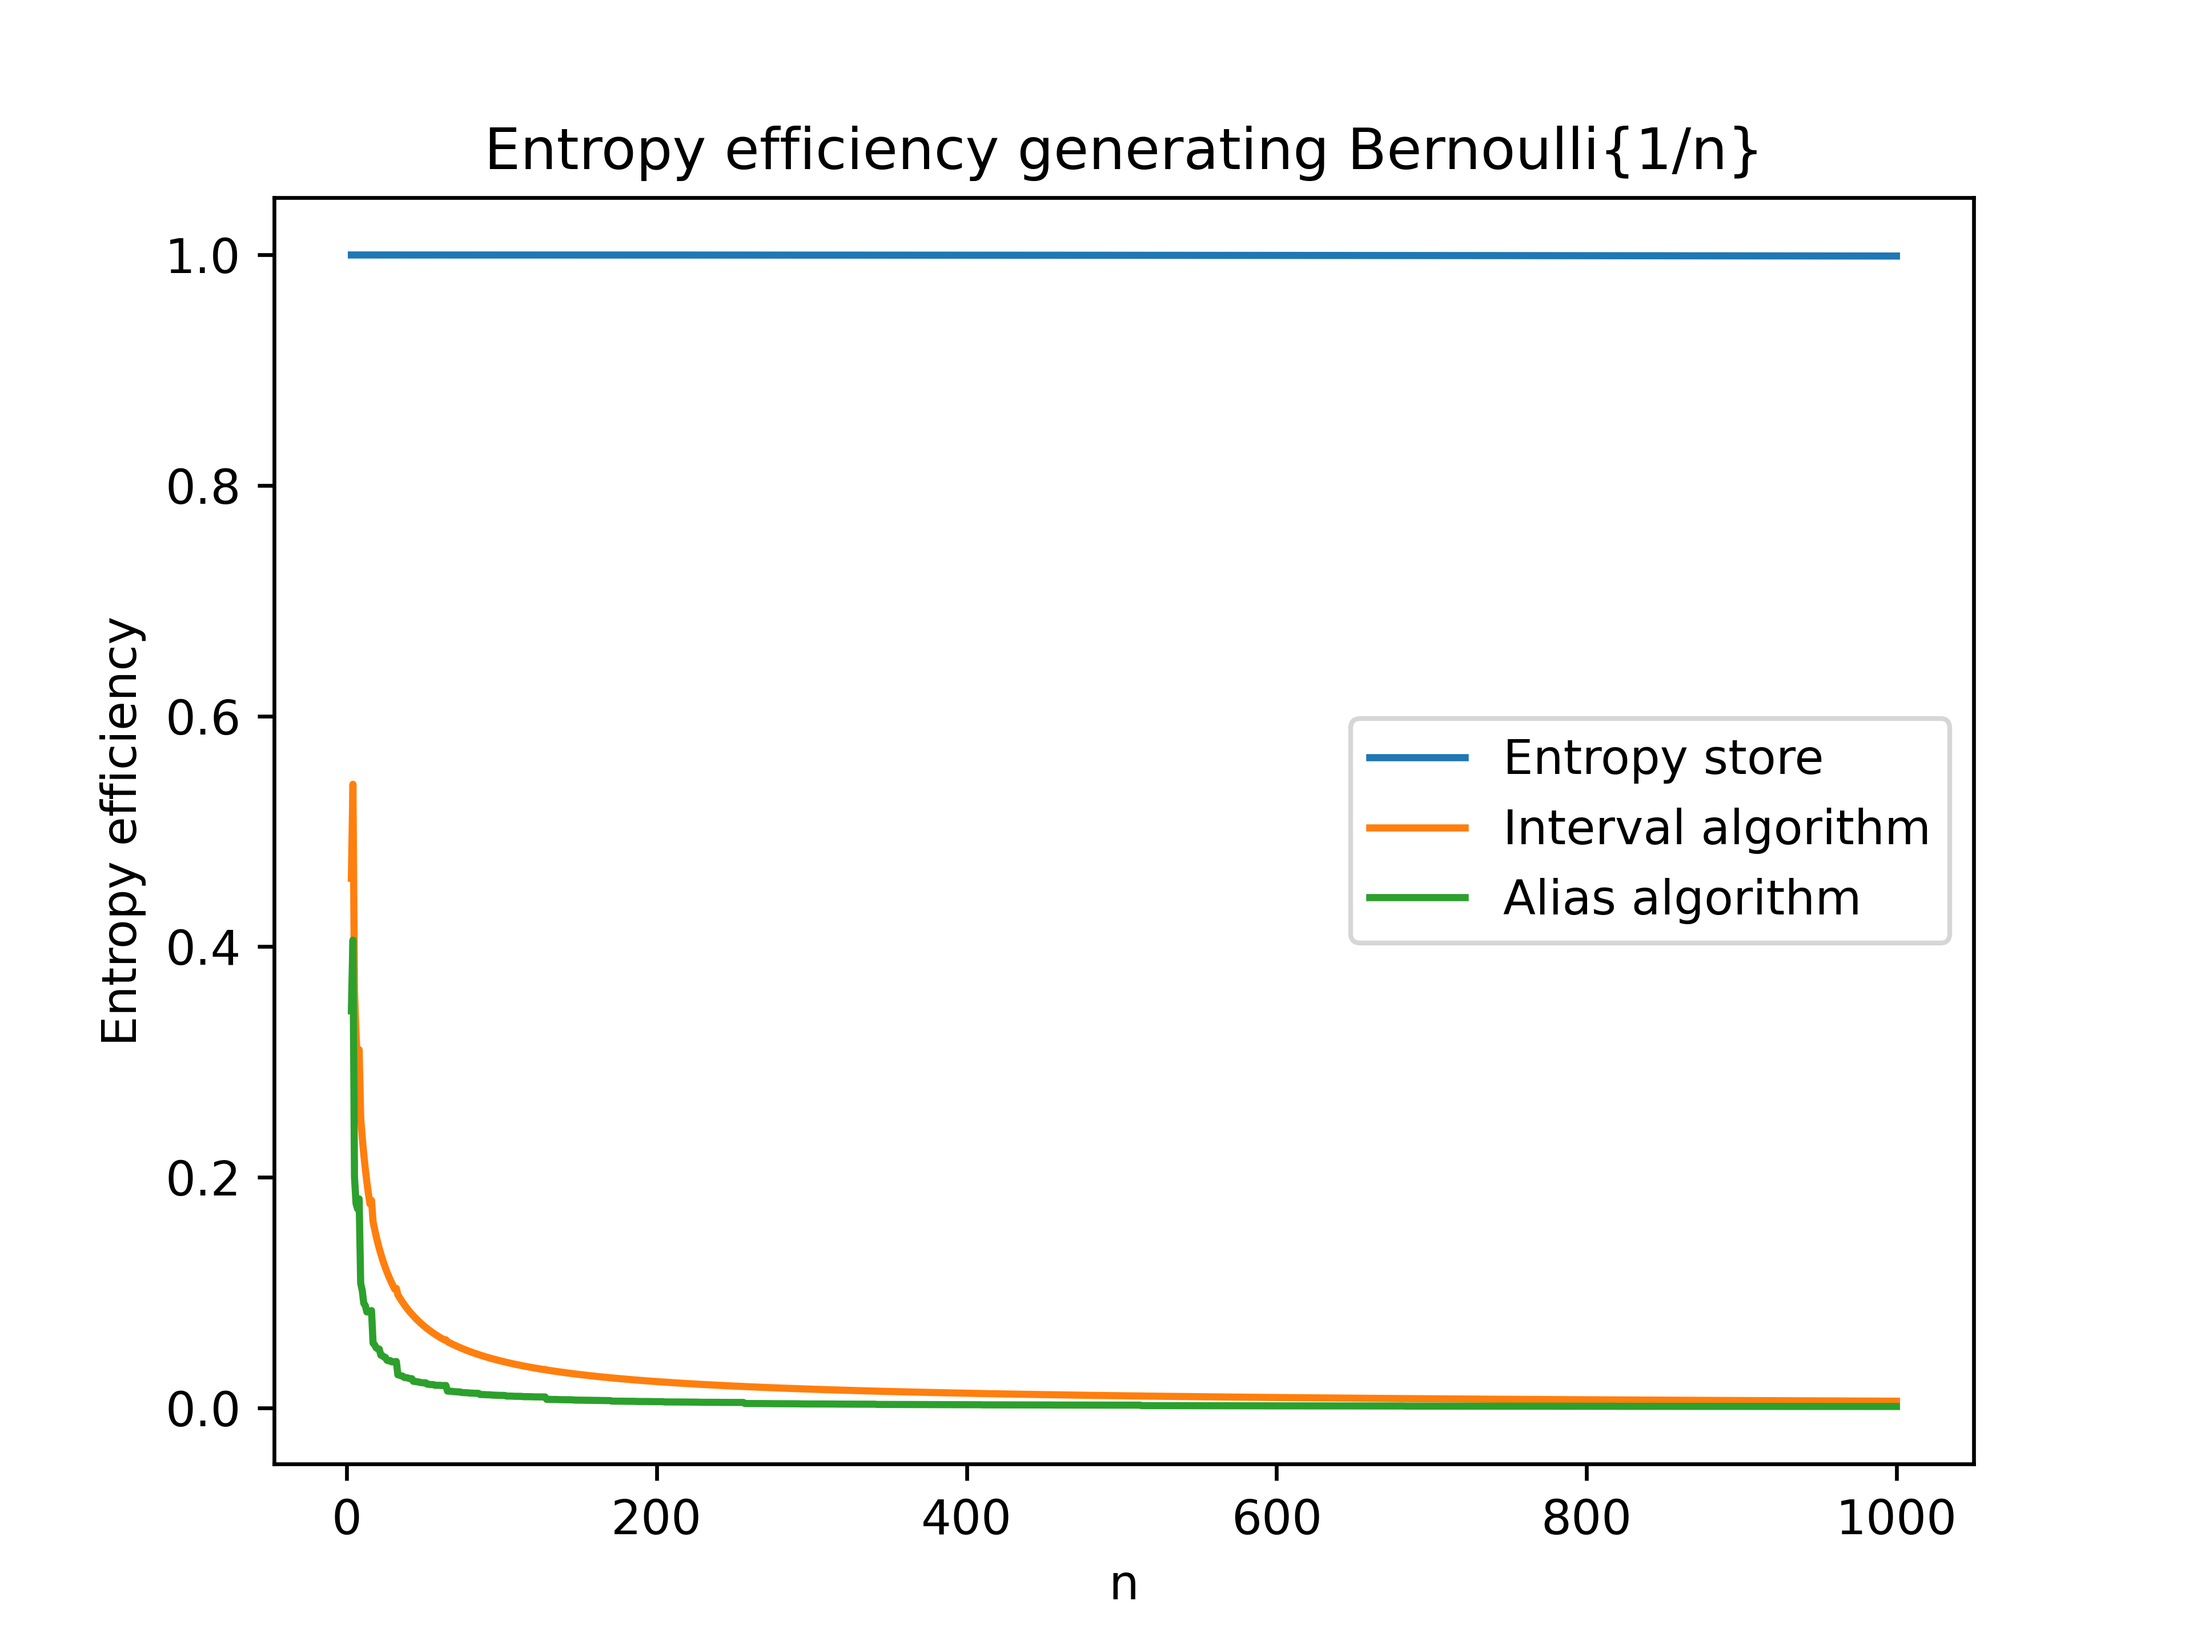
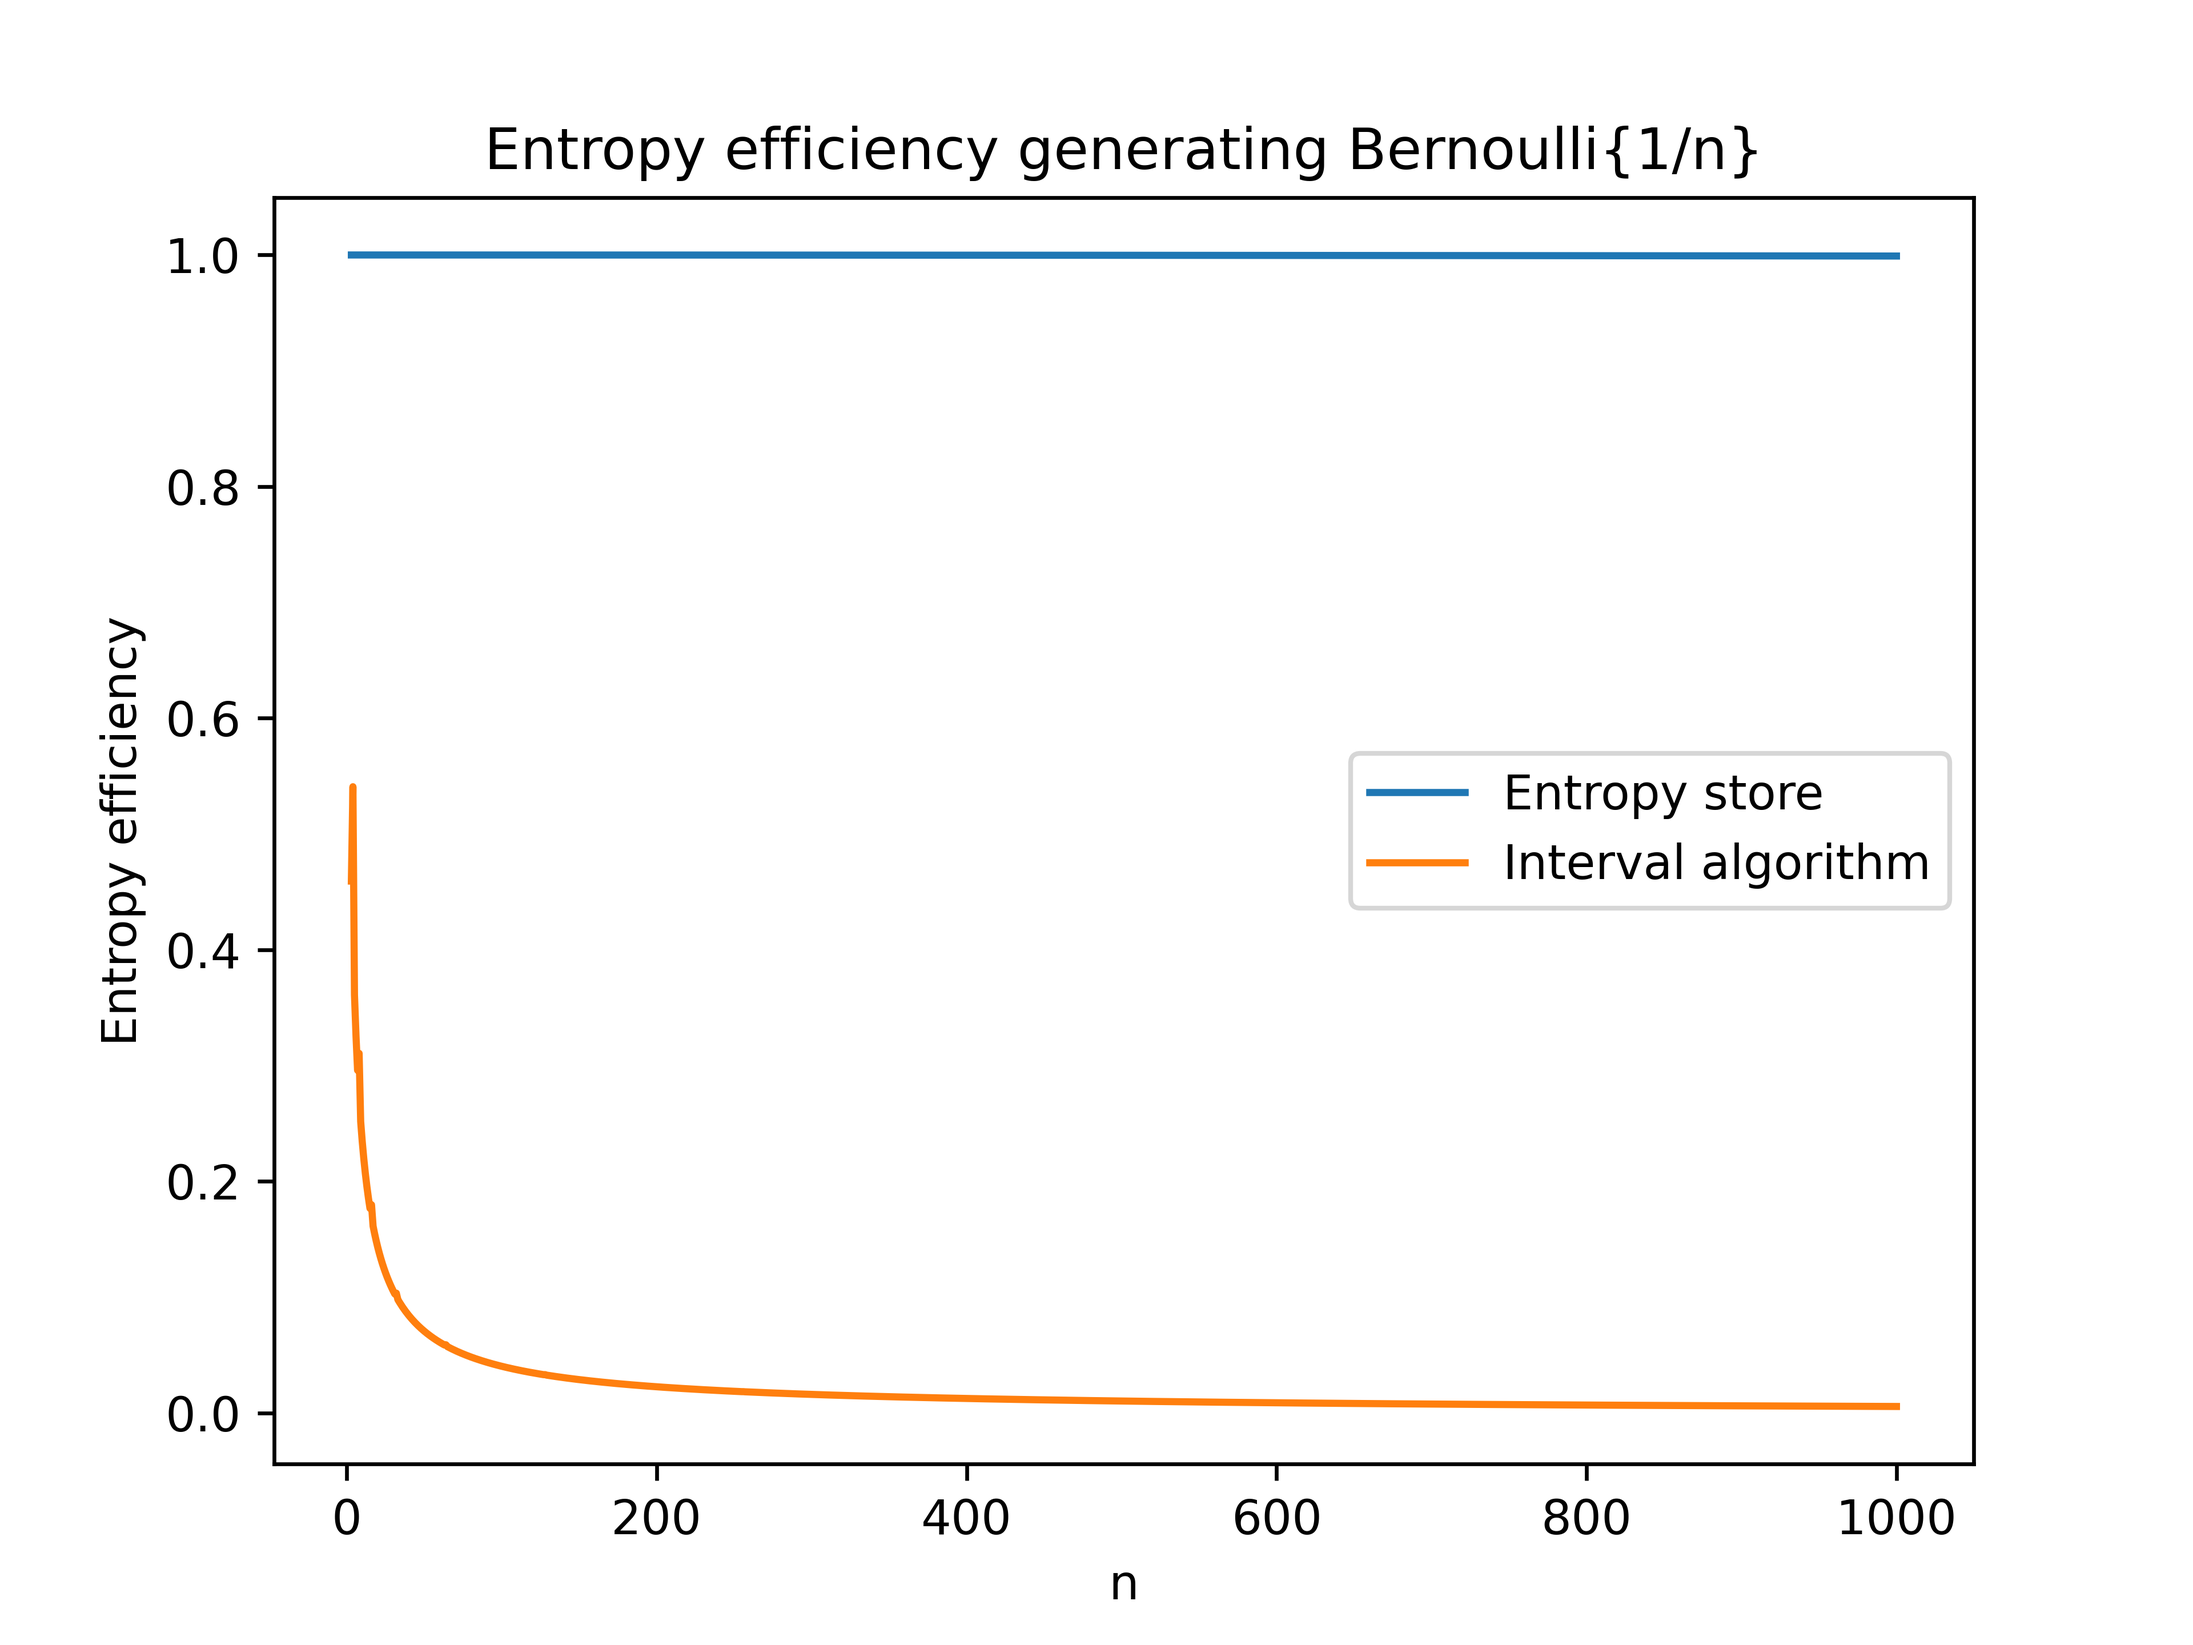
WIP

diff --git a/paper/paper.tex b/paper/paper.tex
@@ -41,6 +41,11 @@ calum.grant@oxam.com}
 \newtheorem{theorem}{Theorem}
 
 \newcommand{\indep}{\perp\!\!\!\perp}
+\newcommand{\unif}[1]{\mathrm{Uniform}\{#1\}}
+\newcommand{\bern}[1]{\mathrm{Bernoulli}\{#1\}}
+\newcommand{\entropy}[1]{\mathrm{H}(#1)}
+\newcommand{\prob}[1]{\mathbb{P}(#1)}
+\newcommand{\expected}[1]{\mathbb{E}(#1)}
 
 \lstset{
   language=C,        % choose the language
@@ -142,33 +147,29 @@ Fill and Huber \cite{fill2000randomness, huber2016perfect}, describe the \em ran
 
 In this section we'll start with some basic building blocks (Algorithm \ref{alg:combine-uniform}-\ref{alg:generate-multiple}), and then use these to create an efficient generator for uniform integers (Algorithm \ref{alg:generate-uniform}).
 
-We'll then build on Algorithm \ref{alg:generate-multiple} to create a generator for Bernoulli variables (Algorithm \ref{alg:generate-bernoulli} andy weighted distributions (Algorithm \ref{alg:generate-weighted}). All of these algorithms are designed to have a 1 or near-1 entropy efficiency, and proofs of correctness and efficiency are contained throughout this section.
+We'll then build on Algorithm \ref{alg:generate-multiple} to create a generator for Bernoulli variables (Algorithm \ref{alg:generate-bernoulli}) and weighted distributions (Algorithm \ref{alg:generate-weighted}). All of these algorithms are designed to have a 1 or near-1 entropy efficiency, and proofs of correctness and efficiency are contained throughout this section.
 
-We'll use uppercase letters $X$, $Y$ and $Z$ for discrete random variables, and write $H(X)$ for the Shannon entropy of this variable. Write $X \sim Uniform\{0..n-1\}$ to mean that $X$ has a uniform integer distribution of "size" $n$, or $X \sim Uniform\{n\}$ for short, because all uniform distributions will be 0-based. $H(Uniform\{n\}) = \log_2n$. The interval $[a,b)$ means all integers in the range $a...b-1$. Write $\mathbb{P}$ for probability, $\mathbb{E}$ for expected value, and lowercase $f$ as a function on random variables. $f^{-1}$ means the inverse function. $A \indep B$ means that random variables $A$ and $B$ are independent. In algorithms, $\div$ and $\mod$ are integer division and modulus operations, and subscripts are implemented as array access.
+We'll use uppercase letters $X$, $Y$ and $Z$ for discrete random variables, and write $\entropy{X}$ for the Shannon entropy of this variable. Write $X \sim \unif{0..n-1}$ to mean that $X$ has a uniform integer distribution of "size" $n$, or $X \sim \unif{n}$ for short, because all uniform distributions will be 0-based. $\entropy{\unif{n}} = \log_2n$. The interval $[a,b)$ means all integers in the range $a...b-1$. Write $\mathbb{P}$ for probability, $\mathbb{E}$ for expected value, and lowercase $f$ as a function on random variables. $f^{-1}$ means the inverse function. $A \indep B$ means that random variables $A$ and $B$ are independent. In algorithms, $\div$ and $\mod$ are integer division and modulus operations, and subscripts are implemented as array access.
 
 We'll say "uniform variable" to mean a uniformly distributed integer variable or variate.
 
 
 \subsection{Basic operations}
 
-At the basis of the ES is the ability to extract entropy from a uniform variable, and to add entropy to a uniform variable in an entropy-preserving way.
+At the basis of the ES is the ability to transform a uniform variable into different forms.  We can divide a uniform variable into (a) two uniform variables, (b) a Bernoulli variable and a uniform variable, (c) a weighted variable and a uniform variable. These transformations are bijective, meaning they preserve entropy, and can be used in both directions. Similar ideas can be found for example in \cite{gentle2003random} Ch. 4 (XXX check this), and we are simply writing these as algorithms. The contribution is how we combine these mappings for entropy conversion.
 
-We can divide a uniform variable into (a) two uniform variables, (b) a Bernoulli variable and a uniform variable, (c) a weighted variable and a uniform variable. These transformations are bijective, meaning they must preserve entropy, and can be used in both directions. Similar ideas can be found for example in \cite{gentle2003random} Ch. 4 XXX, and we are simply writing these as algorithms.
+The function $f_{combine}$, in Definition \ref{def:combine}, allows us two combine two uniform variables $X$ and $Y$ into a single uniform variable $Z$. Its inverse $f^{-1}_{combine}$ in Lemma \ref{lem:divide}. $f_{combine}$ and $f^{-1}_{combine}$ divide the interval of size $nm$ into $n$ intervals of size $m$ as follows:
 
-The function $f_{combine}$, in Definition \ref{def:combine}, divides the range $[0,nm)$ into $n$ subranges of $[0,m)$ as follows:
 
 \[
 \overbrace{
-    \underbrace{
         \underbrace{a_0 ... a_{m-1}}_{m}
         \underbrace{a_m ... a_{2m-1}}_{m}
         ...
         \underbrace{a_{n(m-1)}...a_{nm-1}}_{m} 
-        }_{n}}
+        }
         ^{nm}
 \]
-
-A pair of numbers $(x,y) \in [0,n)\times[0,m)$ uniquely identifies with one number in the range $[0,nm)$. $f_{combine}$ sets up a 1-1 correspondence, a bijection, between a uniform distribution $Uniform\{nm\}$ and a pair of independent uniform distributions $Uniform\{n\}$ and $Uniform\{m\}$.
 
 \begin{definition}
     $f_{combine}: [0,n)\times [0,m) \rightarrow [0,nm)$ is defined as $f_{combine}(X,Y) = mX+Y$.
@@ -176,24 +177,21 @@ A pair of numbers $(x,y) \in [0,n)\times[0,m)$ uniquely identifies with one numb
 \end{definition}
 
 \begin{lemma}
-    The inverse of $f_{combine}$, $f^{-1}_{combine}(Z) = (\lfloor \frac{Z}{m} \rfloor, Z \mod m)$.
+    $f_{combine}$ is a bijection with inverse $f^{-1}_{combine}(Z) = (\lfloor \frac{Z}{m} \rfloor, Z \mod m)$.
+    \label{lem:divide}
 \end{lemma}
 
 \begin{proof}
-    $f_{combine}(f^{-1}_{combine}(Z)) = f_{combine}(\lfloor \frac{Z}{m}\rfloor, Z \text{ mod } m) = m(\lfloor \frac{Z}{m}m \rfloor) + (Z \mod m) = Z$. $f^{-1}_{combine}(f_{combine}(X,Y)) = f^{-1}_{combine}(mX+Y) = (\lfloor\frac{mX+Y}{m}\rfloor, (mX+Y)\mod m) = (X,Y)$.
+    $f_{combine}(f^{-1}_{combine}(Z)) = f_{combine}(\lfloor \frac{Z}{m}\rfloor, Z \text{ mod } m) = m(\lfloor \frac{Z}{m}m \rfloor) + (Z \mod m) = Z$. $f^{-1}_{combine}(f_{combine}(X,Y)) = f^{-1}_{combine}(mX+Y) = (\lfloor\frac{mX+Y}{m}\rfloor, (mX+Y)\mod m) = (X,Y)$. Therefore $f_{combine}$ is a bijection.
 \end{proof}
 
-\begin{corollary}
-    $f_{combine}$ is a bijection.
-\end{corollary}
-
 \begin{lemma}
-    If $X \sim Uniform\{n\}$ and $Y \sim Uniform\{m\}$ and $X \indep Y$, then 
-    $f_{combine}(X,Y) \sim Uniform \{nm\}$.
+    If $X \sim \unif{n}$ and $Y \sim \unif{m}$ and $X \indep Y$, then 
+    $f_{combine}(X,Y) \sim \unif{nm}$.
 \end{lemma}
 
 \begin{proof}
-    Let $Z = mX+Y$, so $Z \in [0,nm)$. $\mathbb{P}(X=x,Y=y) = \mathbb{P}(X=x)\mathbb{P}(Y=y) = \frac{1}{n}\frac{1}{m} = \frac{1}{nm}$. Since $f_{combine}$ is a bijection then it means that all $z$ values occur with $\mathbb{P}(Z=z) = \frac{1}{nm}$, so $Z \sim Uniform\{nm\}$.
+    Let $Z = mX+Y$, so $Z \in [0,nm)$. $\prob{X=x,Y=y} = \prob{X=x}\mathbb{P}(Y=y) = \frac{1}{n}\frac{1}{m} = \frac{1}{nm}$. Since $f_{combine}$ is a bijection then it means that all $z$ values occur with $\mathbb{P}(Z=z) = \frac{1}{nm}$, so $Z \sim Uniform\{nm\}$.
     
 \end{proof}
 
@@ -210,7 +208,7 @@ A pair of numbers $(x,y) \in [0,n)\times[0,m)$ uniquely identifies with one numb
     $\mathbb{P}(X=x,Y=y) = \frac{1}{nm} = \mathbb{P}(X=x)\mathbb{P}(Y=y)$, so $X \indep Y$.
 \end{proof}
 
-Algorithm \ref{alg:combine-uniform} is an implementation of $f_{combine}$, and Algorithm \ref{alg:divide-uniform} is an implementation of $f^{-1}_{combine}$. Algorithm \ref{alg:combine-uniform} will be used when \em returning \em entropy to the entropy store, and Algorithm \ref{alg:divide-uniform} can be used to extract entropy from the entropy store.
+Algorithm \ref{alg:combine-uniform} is an implementation of $f_{combine}$, and Algorithm \ref{alg:divide-uniform} is an implementation of $f^{-1}_{combine}$. Algorithm \ref{alg:combine-uniform} will be used when \em adding \em entropy to the entropy store, and Algorithm \ref{alg:divide-uniform} can be used to \em extract \em entropy from the entropy store.
 
 \begin{algorithm}
 \caption{Combining two uniform integers into one uniform integer}
@@ -235,7 +233,7 @@ Algorithm \ref{alg:combine-uniform} is an implementation of $f_{combine}$, and A
 \label{alg:divide-uniform}
 \begin{algorithmic}[1]
     \Require $S, s$ and $n$ are integers
-    \Require $s \mod n = 0$, i.e. $s$ is divisible by $n$
+    \Require $s \mod m = 0$, i.e. $s$ is divisible by $m$
     \Require $S \sim Uniform\{s\}$
     \Ensure $n * m = s$
     \Ensure $N \sim Uniform\{n\}$
@@ -244,7 +242,7 @@ Algorithm \ref{alg:combine-uniform} is an implementation of $f_{combine}$, and A
 \Procedure{divide\_uniform}{$S, s, m$} 
   \State $N \gets S \div m$
   \State $M \gets S \mod m$
-  \State $n \gets s \div n$
+  \State $n \gets s \div m$
   \State \Return $N, n, M$
 \EndProcedure
 \end{algorithmic}
@@ -557,9 +555,9 @@ Note that $f_{distribute}$ is a generalisation of XX $f_{combine}$ and $f_{sampl
 \Ensure $S \indep W$
 \Procedure{generate\_weighted}{$S, s, n, w, p, o$} 
     \State $S, s, k \gets \textsc{generate\_multiple}(S, s, n)$
-    \State $W \gets p_{(S \div k)}$
-    \State $s \gets k * w_W$
-    \State $S \gets S - o_W$ 
+    \State $W \gets p_{[S \div k]}$
+    \State $s \gets k * w_{[W]}$
+    \State $S \gets S - o_{[W]}$ 
     \State \Return $S, s, W$
 \EndProcedure
 \end{algorithmic}

diff --git a/docs/TODO.md b/docs/TODO.md
@@ -4,6 +4,26 @@ Paper
 - Check on use of uniform integer vs uniform variable
 - The constant $N$ refers to both the store size and a random variable
     -> Solution is to rename one of the $N$
+- Get rid of the alias algorihthm as it's nonsense.
+
+
+Knuth – The Art of Computer Programming, Vol. 2: Seminumerical Algorithms
+
+Donald E. Knuth’s Volume 2, Seminumerical Algorithms, is one of the classic references on random number generation and transformations. It extensively covers how to generate and manipulate uniform random deviates—particularly, it explores how to extract multiple independent random variables from a single uniform stream (e.g., random bits or integers) through methods like subdivision, modular arithmetic, and rejection sampling 
+library.sciencemadness.org
+.
+
+Specifically, Chapter 3 focuses on random number generation and includes sections on transforming uniform distributions—covering essentially the kind of mapping you've constructed (e.g., your formulas for 
+𝑋
+X and 
+𝑌
+Y). Hence, if you're looking to cite a textbook that presents this construction in a formal and foundational context:
+
+Knuth, D. E. (1997). The Art of Computer Programming, Volume 2: Seminumerical Algorithms (3rd ed.). Reading, MA: Addison-Wesley.—See Chapter 3, particularly around section 3.4–3.5 
+library.sciencemadness.org
+.
+
+That would serve as a robust, academically respected citation.
 
 
 Code tidy!
